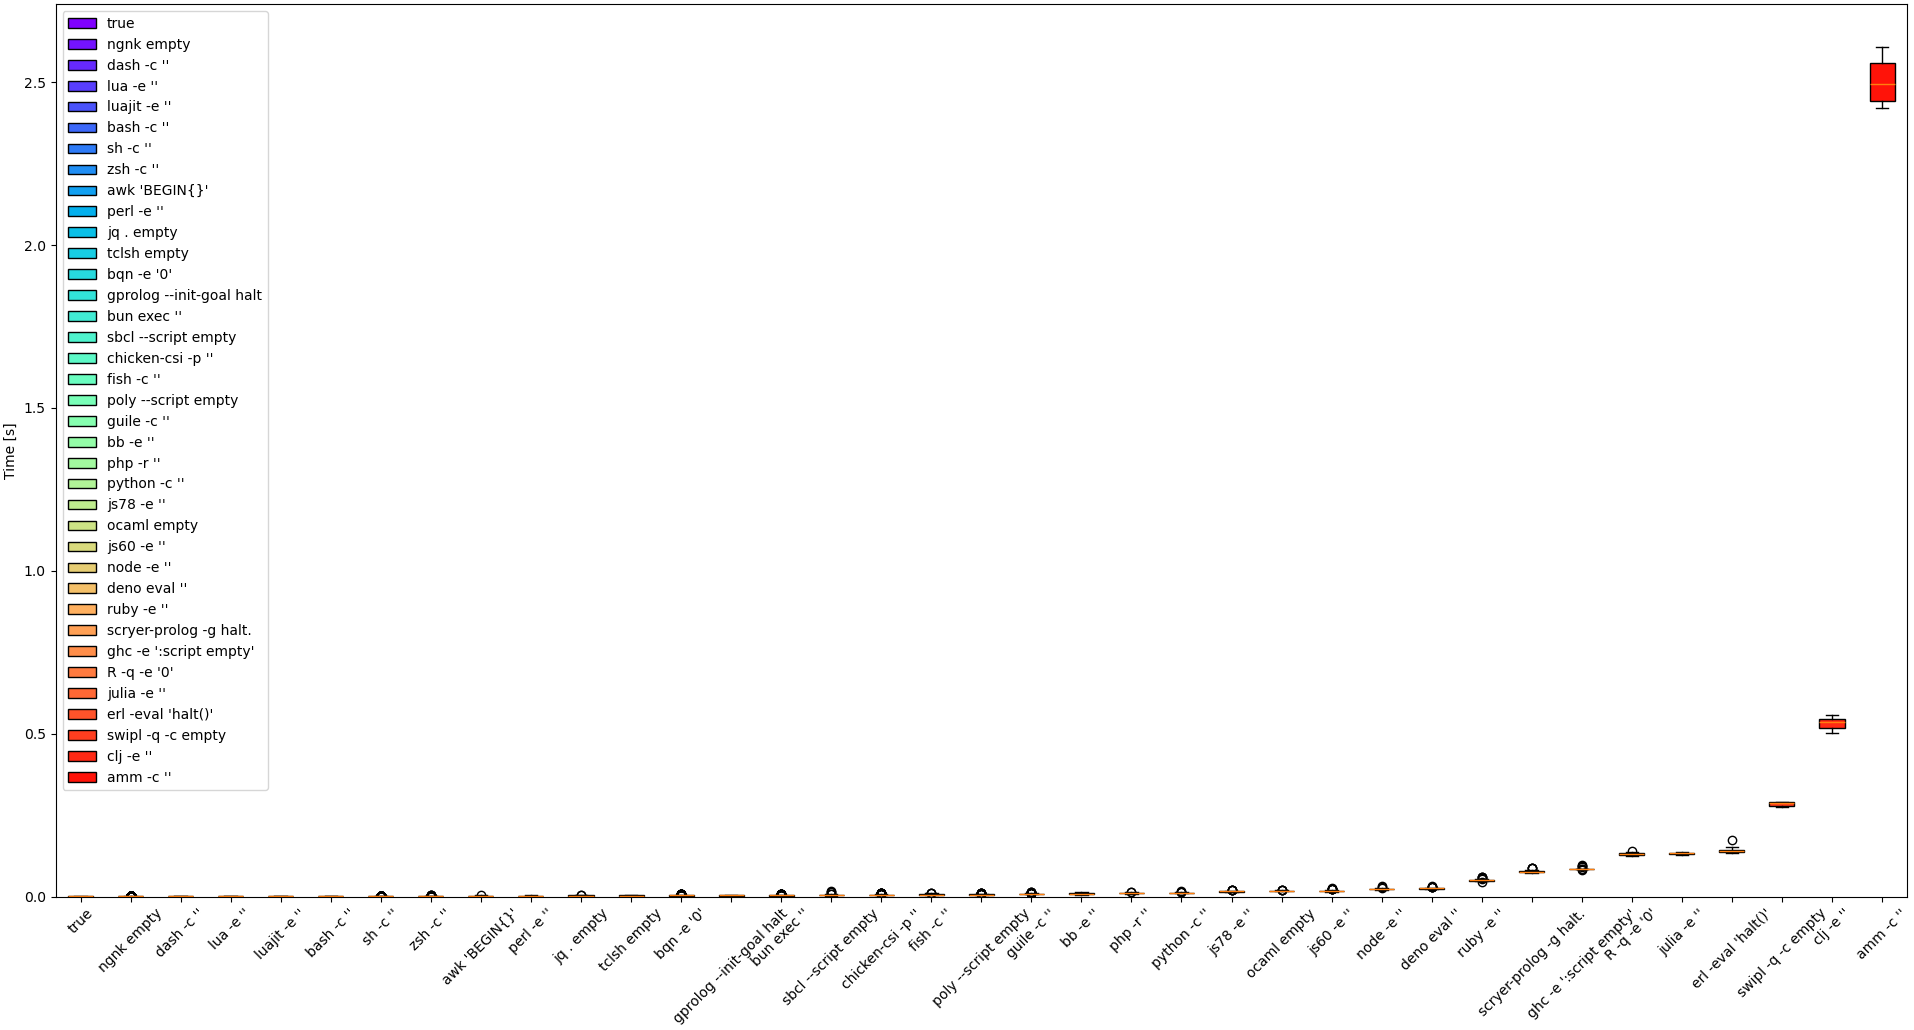
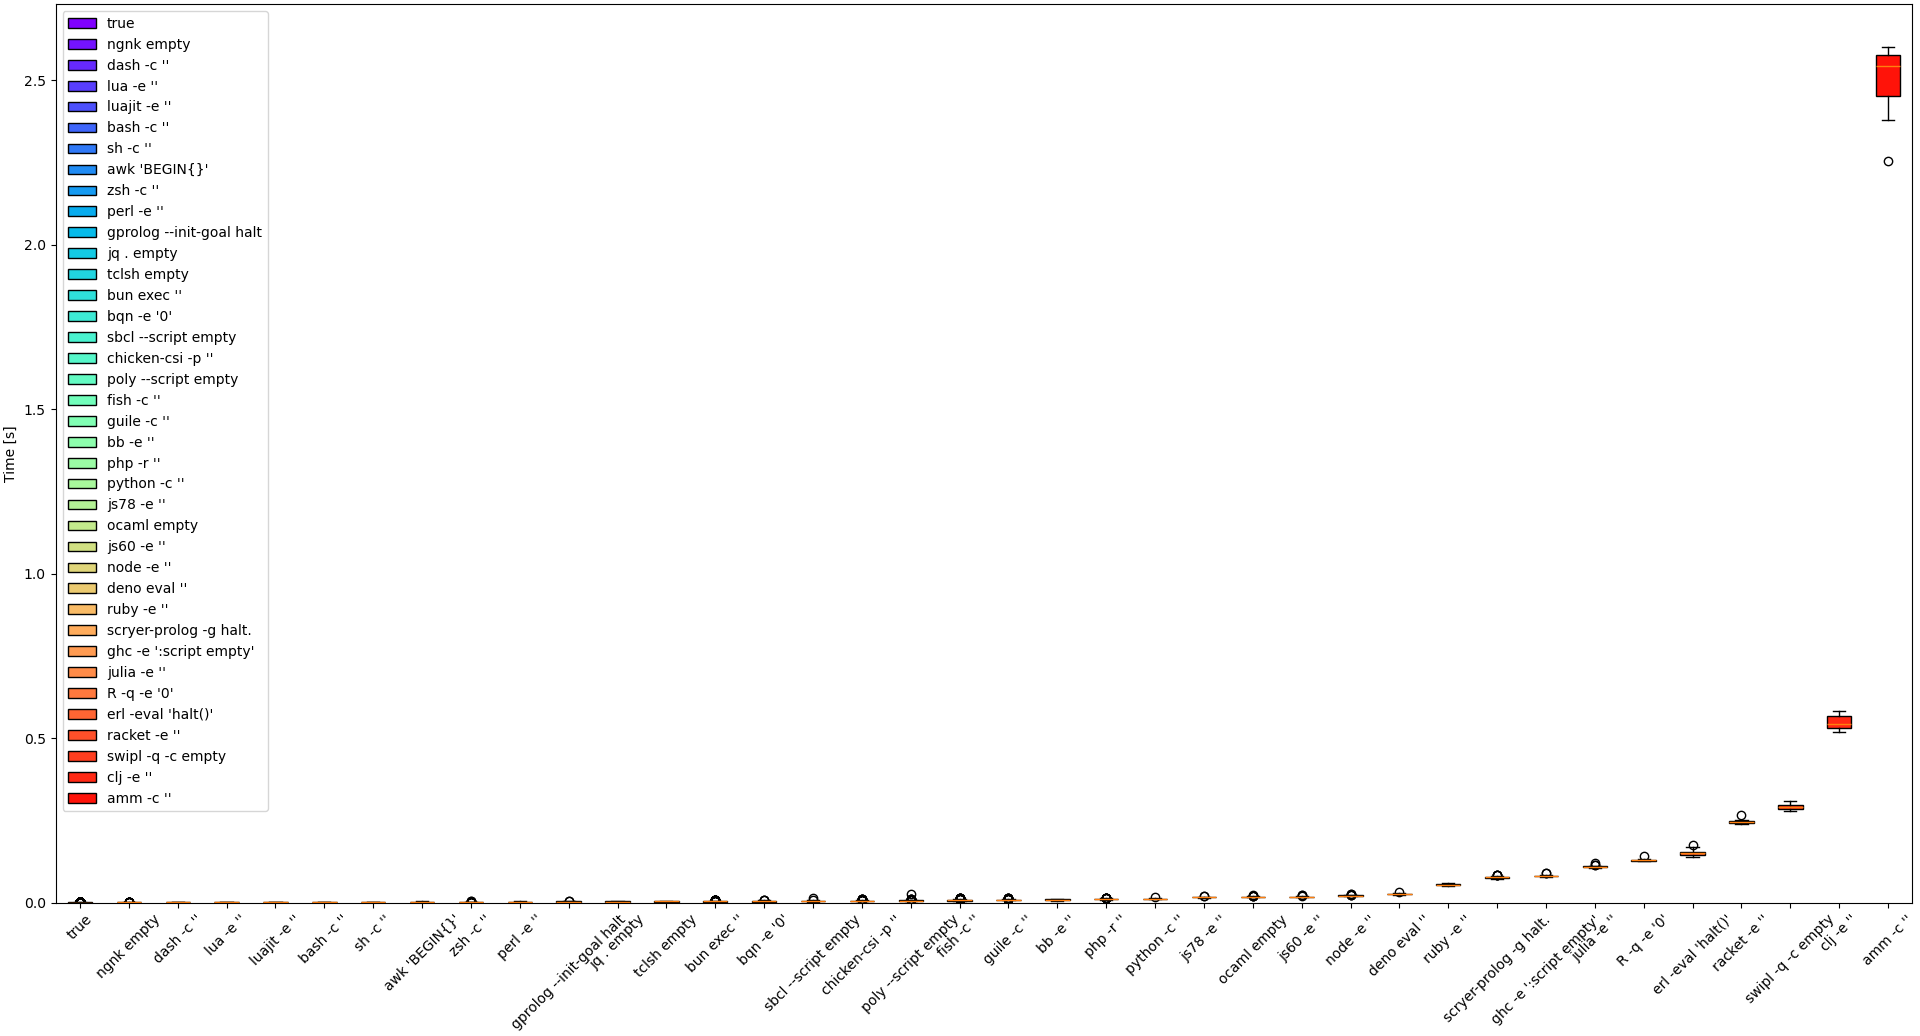
Add racket

diff --git a/whiskers2.py b/whiskers2.py
@@ -37,8 +37,8 @@ medians = [b["median"] for b in results]
 sorted_indices = sorted(range(len(labels)), key=lambda k: medians[k])
 sorted_labels = [labels[i] for i in sorted_indices]
 sorted_times = [times[i] for i in sorted_indices]
-times = sorted_times[:-9]
-labels = sorted_labels[:-9]
+times = sorted_times[:-10]
+labels = sorted_labels[:-10]
 
 plt.figure(figsize=(10, 6), constrained_layout=True)
 boxplot = plt.boxplot(times, vert=True, patch_artist=True)
